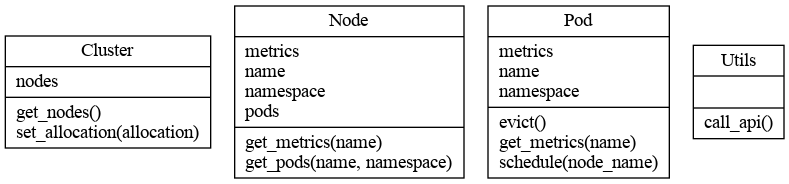
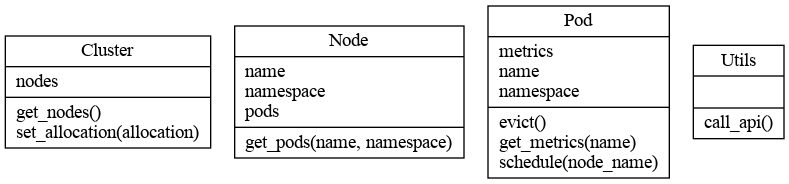
update

diff --git a/test_case_1.py b/test_case_1.py
@@ -10,33 +10,22 @@ namespace = 'lab'
 # workflow definitions
 def scheduling_workflow():
   print('##########################################')
-  print('Iniciando workflow')
-  print('')
+  print('Iniciando workflow', end="\n\n")
 
   cluster = dscore.Cluster()
-  #print('---> Buscando nodes do cluster:')
+  print('---> Buscando nodes do cluster:')
   nodes = cluster.nodes
-  #print(nodes)
-  #print('')
 
   for node_item in nodes:
-    node = dscore.Node(node_item['name'], namespace)
-    #print('---> Buscando metricas para o node ' + node_item['name'] + ':')
-    #print(node.metrics)
-    #print('')
-    node_item['usage'] = node.metrics['usage']
-
-  print('---> Nodes com respectivas metricas:')
-  print(nodes)
+    print(node_item)
   print('')
 
   print('---> Buscando node com maior uso absoluto de memória:')
   nodes_sorted_by_used_memory = sorted(nodes, key=lambda d: d['usage']['memory'])
   node_more_used_memory = nodes_sorted_by_used_memory[-1]
-  print(node_more_used_memory)
-  print('')
+  print(node_more_used_memory, end="\n\n")
 
-  print('---> Verificando se o node selecionado possui ao menos 90% de uso de memória:')
+  print('---> Verificando se o node selecionado possui ao menos 90% de uso de memória:', end=' ')
   percentual_memory_usage = (node_more_used_memory['usage']['memory'] / node_more_used_memory['capacity']['memory']) * 100
   print(str(round(percentual_memory_usage, 2)) + '%')
 
@@ -44,17 +33,14 @@ def scheduling_workflow():
 
     print('---> Buscando pods do node ' + node_more_used_memory['name'] + ':')
     node = dscore.Node(node_more_used_memory['name'], namespace)
-    print(node.pods)
-    print('')
+    print(node.pods, end="\n\n")
 
-    print('---> Verifica Se há ao menos um pod no node selecionado:')
-    print('')
+    print('---> Verifica Se há ao menos um pod no node selecionado:', end="\n\n")
     if len(node.pods) > 0: 
 
       print('---> Buscando primeiro pod da lista:')
       pod_to_evict = node.pods[0]
-      print(pod_to_evict)
-      print('')
+      print(pod_to_evict, end="\n\n")
 
       print('---> Despejando pod ' + pod_to_evict['name'] + ' do respectivo node:')
       pod = dscore.Pod(pod_to_evict['name'], pod_to_evict['namespace'])
@@ -64,17 +50,14 @@ def scheduling_workflow():
       print('---> Buscando node com menor uso absoluto de memória:')
       nodes_sorted_by_used_memory_reverse = sorted(nodes, key=lambda d: d['usage']['memory'], reverse=True)
       node_less_used_memory = nodes_sorted_by_used_memory_reverse[-1]
-      print(node_less_used_memory)
-      print('')
+      print(node_less_used_memory, end="\n\n")
 
       print('---> Alocando o pod ' + pod_to_evict['name'] + ' em um node específico:')
-      pod.schedule(node_less_used_memory['name'])
-      print('')
+      pod.schedule(node_less_used_memory['name'], end="\n\n")
 
     else: 
 
-      print('---> Não há pod a ser despejado no node selecionado!')
-      print('')
+      print('---> Não há pod a ser despejado no node selecionado!', end="\n\n")
 
 scheduling_workflow()
 

diff --git a/dynamic_scheduler_core.py b/dynamic_scheduler_core.py
@@ -28,12 +28,17 @@ class Cluster:
       last_condition = node.status.conditions[-1]     
       if last_condition.status == 'True' and last_condition.type == 'Ready' and last_condition.reason == 'KubeletReady':
         if 'node-role.kubernetes.io/control-plane' not in node.metadata.labels:
+          node_metrics_info = Utils.call_api(f'nodes/{node.metadata.name}')
           ready_nodes.append({
             'name': node.metadata.name,
             'type': 'master' if 'node-role.kubernetes.io/master' in node.metadata.labels else 'worker',
             'capacity': {
               'memory': int(node.status.capacity['memory'][:-2]), # memory in KB
               'cpu': int(node.status.capacity['cpu']) * 1000000000 # cpu in nanocores
+            },
+            'usage': {
+              'memory': int(node_metrics_info['usage']['memory'][:-2]), # memory in KB
+              'cpu': int(node_metrics_info['usage']['cpu'][:-1]) # cpu in nanocores
             }
           })
     return ready_nodes
@@ -49,24 +54,6 @@ class Node:
     config.load_kube_config()
     self.name = name
     self.namespace = namespace
-
-  @property
-  def metrics(self):
-    return self.get_metrics(self.name)
-
-  def get_metrics(self, name):
-    response = Utils.call_api(f'nodes/{name}')
-    if response:
-      return {
-        'name': name,
-        'timestamp': response['timestamp'], # metric timestamp
-        'usage': {
-          'memory': int(response['usage']['memory'][:-2]), # memory in KB
-          'cpu': int(response['usage']['cpu'][:-1]) # cpu in nanocores
-        }
-      }
-    else:
-      return {}
 
   @property
   def pods(self):

diff --git a/monitoring.py b/monitoring.py
@@ -17,11 +17,10 @@ def read_cluster_data_workflow():
 
   print('----------------------------------------')
   for nodes_item in nodes:
-    node = dscore.Node(nodes_item['name'], namespace)
-    nodes_item['usage'] = node.metrics['usage']
     percentual_memory_usage = (nodes_item['usage']['memory'] / nodes_item['capacity']['memory']) * 100
     print('---> ' + nodes_item['name'] + ' - ' + str(nodes_item['usage']['memory']) + ' - ' + str(round(percentual_memory_usage, 2)) + '%')
     print('')
+    node = dscore.Node(nodes_item['name'], namespace)
     pods = node.pods
     for pods_item in pods:
       print('     ' + pods_item['name'])

diff --git a/seeding_scheduler.py b/seeding_scheduler.py
@@ -54,7 +54,7 @@ def main():
         scheduling_workflow(event['object'], target_node, namespace)
       except client.rest.ApiException as e:
         print(json.loads(e.body)['message'])
-
+        
 if __name__ == '__main__':
   main()
 

diff --git a/README.md b/README.md
@@ -1,9 +1,10 @@
 ## Dynamic Scheduler
 
-This custom scheduler target workloads within an application-class with the following characteristics:
+The dynamic scheduler targets workloads within an application-class with the following characteristics:
 
-- with no volumes attached
+- no volumes attached
 - stateful
+
 
 ## Cluster setup
 
@@ -11,41 +12,36 @@ This custom scheduler target workloads within an application-class with the foll
 #minikube start --nodes 4 -p ppgcc --cpus 2 --memory 4096 --vm --kubernetes-version=v1.24.3
 minikube start --nodes 3 -p ppgcc --cpus 2 --memory 1900 --vm --kubernetes-version=v1.24.3
 
-### Enabled Metrics API
+### Enable Metrics API
 minikube addons enable metrics-server -p ppgcc
 
 ### Create "lab" namespace
 kubectl create namespace lab
 
-### Remover deployments do namespace lab
+
+## Useful commands
+
+### Remove deployments from "lab" namespace
 kubectl --namespace lab delete deployments `kubectl get deployments --namespace lab --no-headers -o custom-columns=":metadata.name"`
 
-### Remover pods do namespace lab
-kubectl --namespace lab delete pod `kubectl get pods --namespace lab1 --no-headers -o custom-columns=":metadata.name"`
+### Remove pods from "lab" namespace
+kubectl --namespace lab delete pod `kubectl get pods --namespace lab --no-headers -o custom-columns=":metadata.name"`
 
-COMANDOS ÚTEIS
+### Purge "ppgcc" minikube profile
+minikube delete -p ppgcc
 
-LISTAR SERVIÇOS
+### List minikube services
 minikube service list -p ppgcc
 
-LISTAR INFO DOS PODS DO NAMESPACE LAB1
+### List pods info at "lab" namespace
 kubectl get pods --namespace lab -o wide
 
-EXIBIR RECURSOS DOS PODS DO NAMESPACE LAB1
+### Show pods resources at "lab" namespace
 kubectl top node --namespace lab
 
-MOSTRAR DASHBOARD
-minikube dashboard -p ppgcc
-
-EXIBIR NODES VIA METRICS API
+### Show nodes through Metrics API
 kubectl get --raw /apis/metrics.k8s.io/v1beta1/nodes
 
-REMOVER PODS DO NAMESPACE LAB1
-kubectl --namespace lab1 delete pod `kubectl get pods --namespace lab1 --no-headers -o custom-columns=":metadata.name"
-
-EXIBIR LOG DO TEST POD
-kubectl --namespace lab1 logs -f `kubectl get pods --namespace lab1 --no-headers -o custom-columns=":metadata.name" |grep scheduler`
-
-#### Para gerar os diagramas de classes e pacotes
+#### Generate class and packages diagram
 sudo apt install pylint graphviz
 pyreverse -o png .
